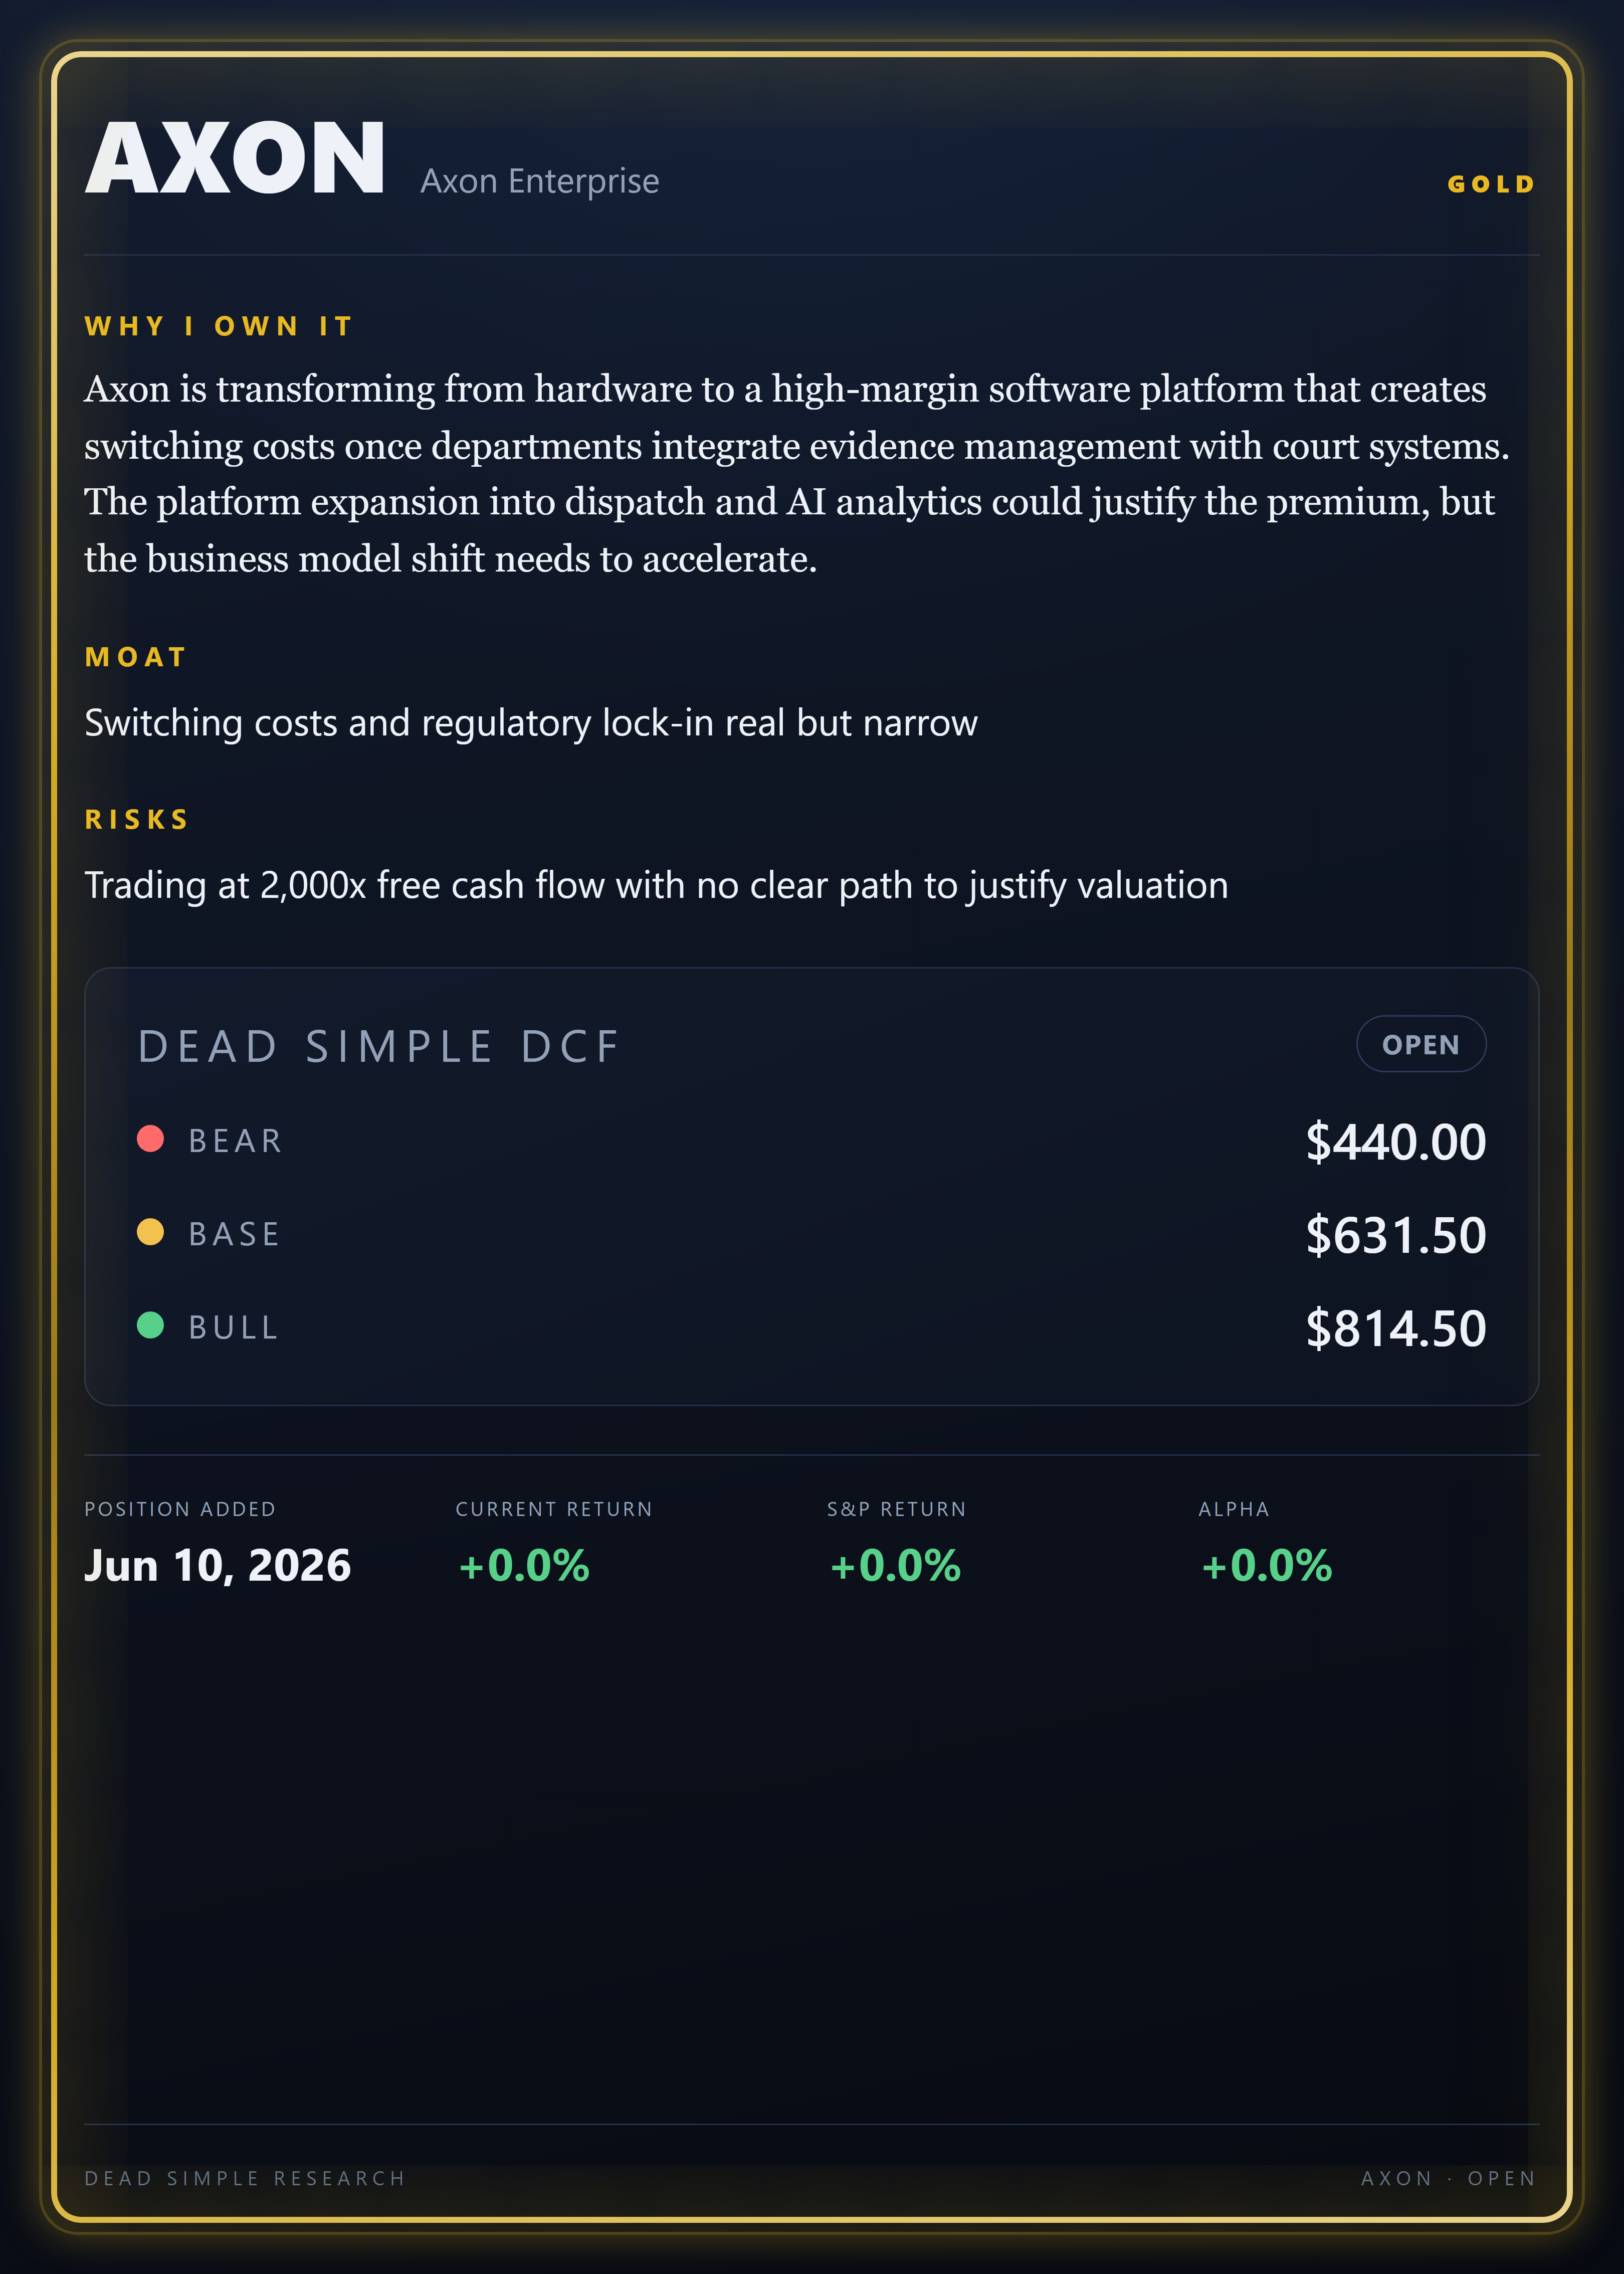
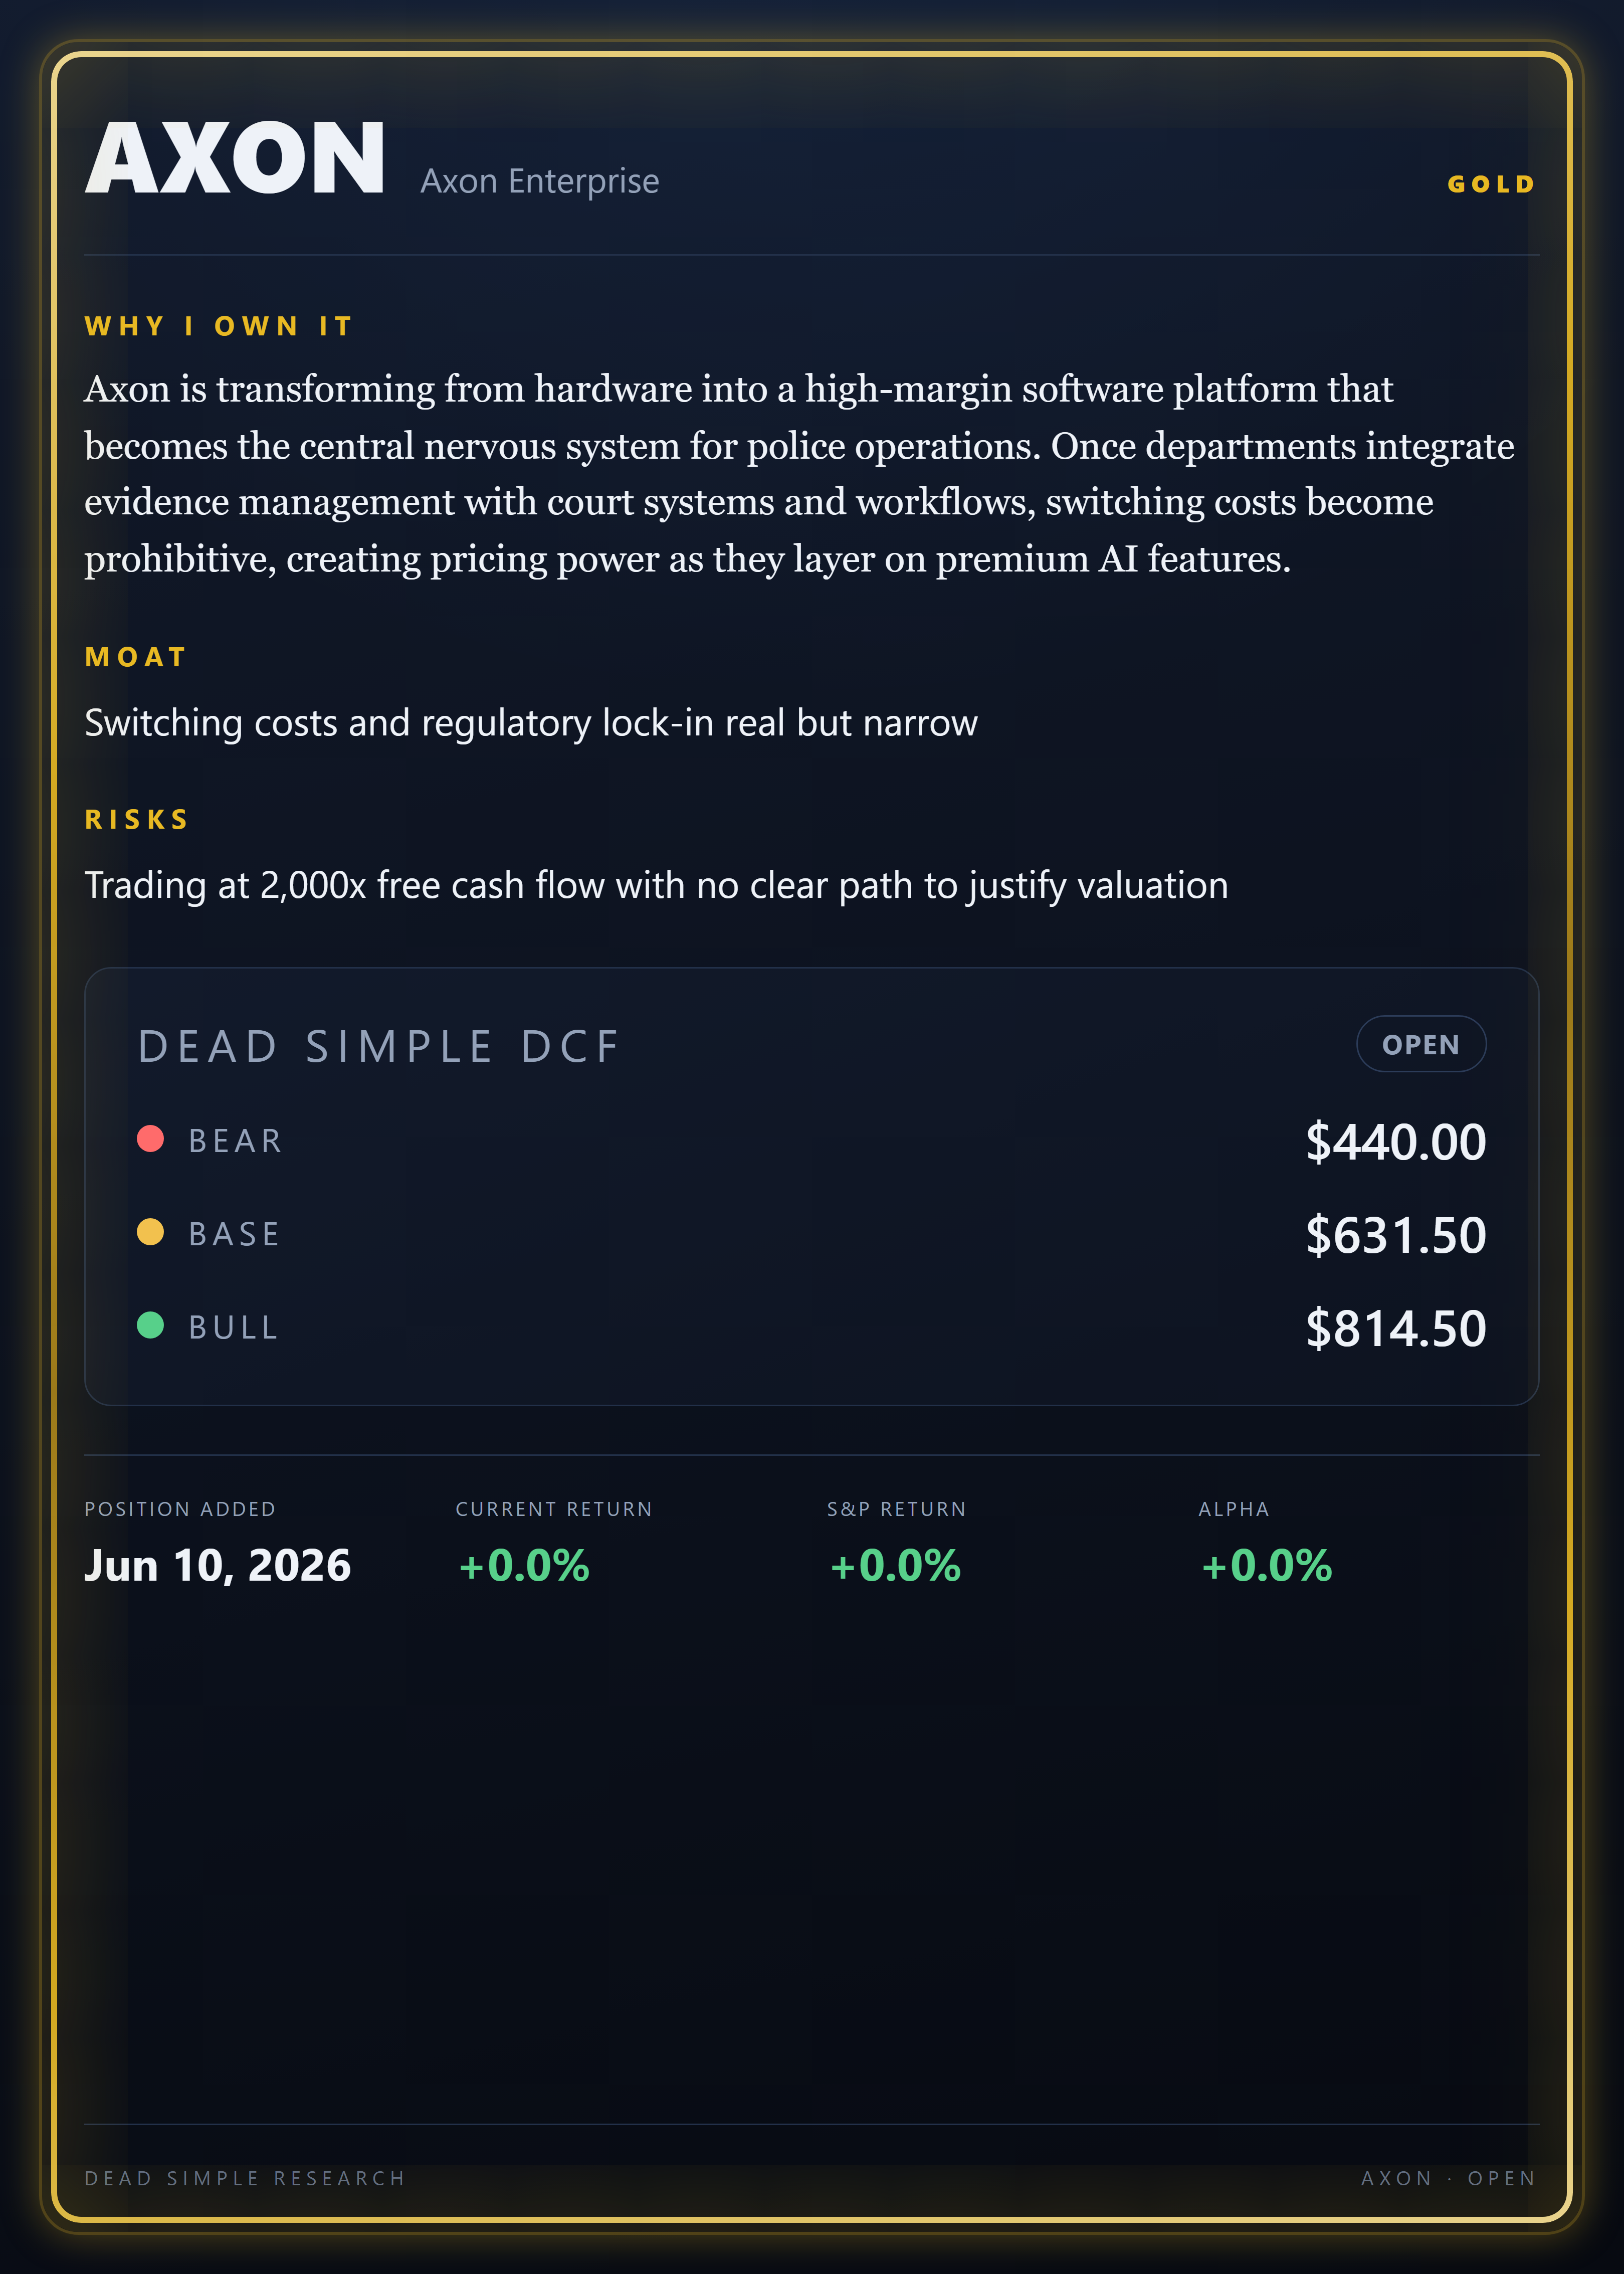
Add About page + top-right link; AXON thesis now owns the call

Changed region(s): [[0.0623, 0.1554, 0.9352, 0.2487]]

diff --git a/about.html b/about.html
@@ -1,0 +1,148 @@
+<!DOCTYPE html>
+<html lang="en">
+<head>
+  <meta charset="UTF-8" />
+  <meta name="viewport" content="width=device-width, initial-scale=1" />
+  <title>About — Dead Simple</title>
+  <meta name="description" content="Dead Simple exists to make difficult things learnable. Research published, reasoning shared, results tracked publicly." />
+  <meta name="theme-color" content="#05070c" />
+
+  <meta property="og:type" content="website" />
+  <meta property="og:title" content="About Dead Simple" />
+  <meta property="og:description" content="Complexity is infinite. Dead Simple exists to make difficult things learnable." />
+  <meta property="og:url" content="https://deadsimple.money/about.html" />
+  <meta property="og:site_name" content="Dead Simple" />
+
+  <link rel="icon" type="image/png" href="assets/logo.png" />
+  <link rel="canonical" href="https://deadsimple.money/about.html" />
+
+  <style>
+    :root {
+      --bg: #05070c;
+      --panel: #0d1320;
+      --hairline: #223049;
+      --text: #eef2f8;
+      --muted: #93a1b8;
+      --faint: #5d6b85;
+      --accent: #3d82e8;
+      --serif: "Didot", "Bodoni 72", "Cormorant Garamond", Georgia, "Times New Roman", serif;
+      --sans: system-ui, -apple-system, "Segoe UI", Roboto, sans-serif;
+    }
+
+    *, *::before, *::after { box-sizing: border-box; }
+    html, body { margin: 0; padding: 0; }
+
+    body {
+      background:
+        radial-gradient(80% 50% at 50% 0%, rgba(61,130,232,0.10), rgba(0,0,0,0) 60%),
+        var(--bg);
+      color: var(--text);
+      font-family: var(--sans);
+      min-height: 100vh;
+      line-height: 1.65;
+      -webkit-font-smoothing: antialiased;
+    }
+
+    .wrap { max-width: 680px; margin: 0 auto; padding: 3rem 1.25rem 5rem; }
+
+    .top-nav {
+      position: absolute; top: 1.4rem; right: 1.4rem;
+    }
+    .top-nav a {
+      display: inline-block; padding: 0.55rem 1.1rem;
+      border: 1px solid var(--hairline); border-radius: 999px;
+      color: var(--muted); text-decoration: none; font-size: 0.82rem;
+      letter-spacing: 0.06em; text-transform: uppercase;
+      transition: color 150ms ease, border-color 150ms ease;
+    }
+    .top-nav a:hover, .top-nav a:focus-visible { color: var(--accent); border-color: var(--accent); outline: none; }
+
+    header { text-align: center; margin-bottom: 2.8rem; }
+    .brand { display: inline-flex; align-items: center; gap: 0.7rem; text-decoration: none; color: inherit; }
+    .brand img { width: 46px; height: 46px; display: block; }
+    h1 {
+      font-family: var(--serif);
+      font-weight: 400;
+      font-size: clamp(2.2rem, 6vw, 3.4rem);
+      letter-spacing: -0.01em;
+      margin: 0;
+      color: #fafafa;
+    }
+    .accent-rule { width: 36px; height: 2px; margin: 1.1rem auto; background: var(--accent); border: 0; }
+
+    article { font-size: 1.06rem; color: var(--text); }
+    article p { margin: 0 0 1.3rem; }
+    article .lead {
+      font-family: var(--serif); font-style: italic;
+      font-size: 1.5rem; color: #fafafa; line-height: 1.4;
+    }
+    article .pull {
+      font-family: var(--serif); font-style: italic;
+      font-size: 1.25rem; color: var(--muted);
+    }
+    article .sig {
+      margin-top: 2.2rem; font-family: var(--serif); font-style: italic;
+      font-size: 1.3rem; color: var(--muted);
+    }
+
+    .back-home { text-align: center; margin-top: 3.5rem; }
+    .back-home a {
+      display: inline-block; padding: 0.6rem 1.4rem;
+      border: 1px solid var(--hairline); border-radius: 999px;
+      color: var(--muted); text-decoration: none; font-size: 0.82rem;
+      letter-spacing: 0.06em; text-transform: uppercase;
+      transition: color 150ms ease, border-color 150ms ease;
+    }
+    .back-home a:hover, .back-home a:focus-visible { color: var(--accent); border-color: var(--accent); outline: none; }
+  </style>
+</head>
+<body>
+  <nav class="top-nav" aria-label="Site">
+    <a href="index.html">The Scorecard</a>
+  </nav>
+
+  <div class="wrap">
+    <header>
+      <a class="brand" href="index.html">
+        <img src="assets/logo.png" alt="Dead Simple logo" />
+        <h1>About Dead Simple</h1>
+      </a>
+      <hr class="accent-rule" aria-hidden="true" />
+    </header>
+
+    <article>
+      <p class="lead">Complexity is infinite.</p>
+
+      <p>Investing, careers, technology, healthcare, business &mdash; most topics become
+      overwhelming because people are buried under information instead of understanding.</p>
+
+      <p><strong>Dead Simple exists to make difficult things learnable.</strong></p>
+
+      <p>I'm Zack &mdash; a PharmD, investor, and lifelong student of businesses. I write about
+      investing, decision-making, career development, and other topics that benefit from
+      clear thinking and simple explanations.</p>
+
+      <p class="pull">This is not a stock-picking service.</p>
+
+      <p>I publish my research, share my reasoning, and track results publicly. Every position
+      enters the scorecard when opened and stops tracking when closed. Winners and losers
+      will always remain visible.</p>
+
+      <p>The goal isn't to be right all the time.</p>
+
+      <p>The goal is to think clearly, learn continuously, and build a body of work that helps
+      others shorten the learning curve.</p>
+
+      <p><strong>Everything is free.</strong></p>
+
+      <p>If something here helps you, that's enough.</p>
+
+      <p class="sig">&mdash; Zack</p>
+    </article>
+
+    <div class="back-home">
+      <a href="index.html">&larr; Back to the cards</a>
+    </div>
+  </div>
+</body>
+</html>

diff --git a/index.html b/index.html
@@ -125,6 +125,20 @@
     }
     .empty strong { color: var(--text); display: block; margin-bottom: 0.4rem; font-size: 1.1rem; }
 
+    /* Top-right About link */
+    .top-nav { position: absolute; top: 1.4rem; right: 1.4rem; z-index: 5; }
+    .top-nav a {
+      display: inline-block; padding: 0.55rem 1.2rem;
+      border: 1px solid var(--accent); border-radius: 999px;
+      color: var(--text); background: rgba(61, 130, 232, 0.12);
+      text-decoration: none; font-size: 0.85rem; font-weight: 600;
+      letter-spacing: 0.08em; text-transform: uppercase;
+      transition: color 150ms ease, border-color 150ms ease, background 150ms ease;
+    }
+    .top-nav a:hover, .top-nav a:focus-visible {
+      color: #fff; background: rgba(61, 130, 232, 0.28); outline: none;
+    }
+
     /* Footer */
     footer { text-align: center; margin-top: 4rem; }
     nav.links { display: flex; flex-wrap: wrap; justify-content: center; gap: 0.6rem; }
@@ -139,6 +153,10 @@
   </style>
 </head>
 <body>
+  <nav class="top-nav" aria-label="Site">
+    <a href="about.html">About</a>
+  </nav>
+
   <div class="wrap">
     <header>
       <div class="brand">
@@ -159,7 +177,8 @@
     <main class="gallery" id="gallery" aria-live="polite"></main>
 
     <footer>
-      <nav class="links" aria-label="Social channels">
+      <nav class="links" aria-label="Site and social channels">
+        <a href="about.html">About</a>
         <a href="https://www.youtube.com/@deadsimplehq" rel="noopener" target="_blank">YouTube</a>
         <a href="https://www.tiktok.com/@deadsimplehq" rel="noopener" target="_blank">TikTok</a>
         <a href="https://x.com/DeadSimpleMoney" rel="noopener" target="_blank">X</a>

diff --git a/cards/AXON/card.html b/cards/AXON/card.html
@@ -745,7 +745,7 @@ html, body {
 
     <div class="section">
       <div class="label">Why I Own It</div>
-      <div class="body thesis">Axon is transforming from hardware to a high-margin software platform that creates switching costs once departments integrate evidence management with court systems. The platform expansion into dispatch and AI analytics could justify the premium, but the business model shift needs to accelerate.</div>
+      <div class="body thesis">Axon is transforming from hardware into a high-margin software platform that becomes the central nervous system for police operations. Once departments integrate evidence management with court systems and workflows, switching costs become prohibitive, creating pricing power as they layer on premium AI features.</div>
     </div>
 
     <div class="section">

diff --git a/cards/AXON/video_talking_points.md b/cards/AXON/video_talking_points.md
@@ -1,7 +1,7 @@
 # AXON — Video Talking Points
 
-- Axon makes body cameras and tasers but the real bet is on becoming the software platform for police departments.
-- Government digitization is accelerating and once departments integrate with court systems, switching costs become prohibitive.
-- The platform expansion into AI analytics and dispatch could create massive pricing power as a monopoly-like position.
-- Trading at 2,000x free cash flow means any execution stumble or big tech competition could crush the stock.
-- It's a watchlist play until August earnings show software revenue growing fast enough to justify this valuation.
+- Axon makes body cameras and tasers but the real bet is on becoming the operating system for police departments.
+- Government digitization is accelerating and once departments integrate Axon's platform with court systems, switching becomes nearly impossible.
+- The bull case is transforming into a high-margin software company with AI features that create pricing power.
+- The risk is paying 2,000x free cash flow for a business model shift with limited evidence it's happening fast enough.
+- Watch for software revenue growth above 30% in August earnings to validate this transformation story.

diff --git a/cards/AXON/x_post.md b/cards/AXON/x_post.md
@@ -1,1 +1,1 @@
-AXON trading at 2,000x FCF betting on police software transformation. Strong switching costs once integrated, but valuation requires near-perfect execution. August earnings will show if software growth justifies the premium. Dead Simple Score: 89 🎯
+AXON at 2,000x FCF is betting on a hardware-to-software transformation that hasn't happened yet. The switching costs are real once police departments integrate their workflows, but August earnings need 30%+ software growth to justify this valuation. Dead Simple Score: 89/100 🎯